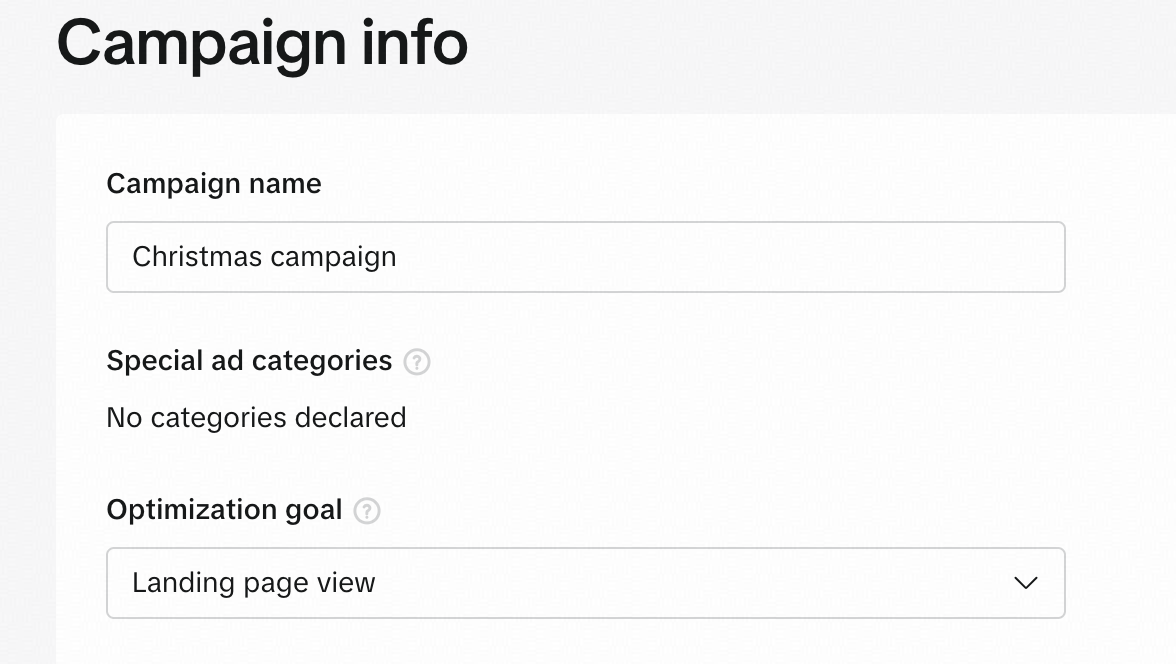
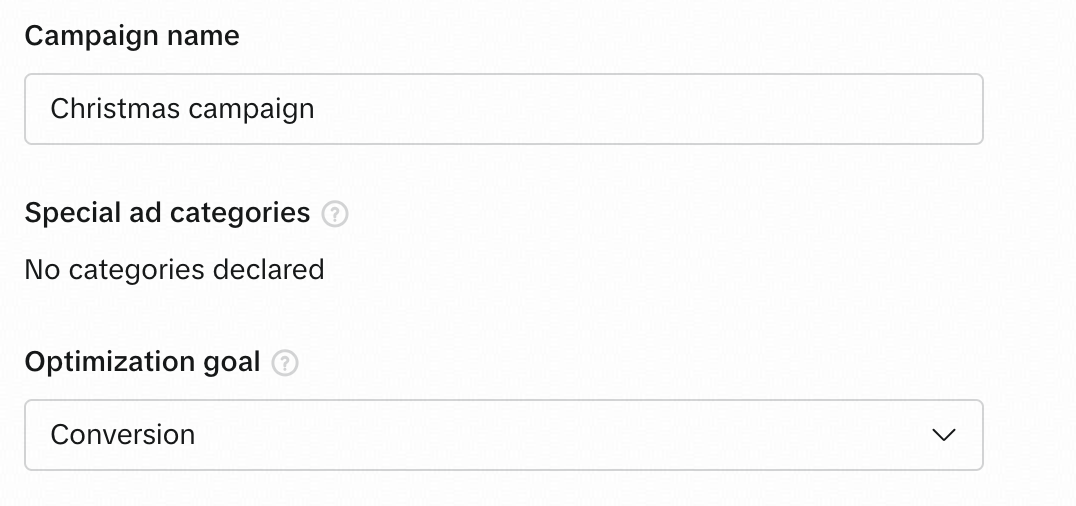
Tiktok improvements

diff --git a/versioned_docs/version-3.0/tiktok-create-campaign.md b/versioned_docs/version-3.0/tiktok-create-campaign.md
@@ -20,20 +20,46 @@ If you are just getting started with TikTok for Business, you need to add your b
 
 Once your business account is approved, you will be redirected to creating your first campaign.
 
-## Step 2. Select the campaign objective
+## Step 2. Create a pixel
+
+You will need a TikTok pixel to connect your campaign data to revenue and get better results:
+1. Go to [**Events Manager**](https://ads.tiktok.com/i18n/events_manager/home). Click **Connect data source**.
+   <ZoomImage id="tiktok-data-source.webp" />
+2. Select **Web** as a data source type.
+   <ZoomImage id="tiktok-data-source-type.webp" />
+3. In the **Add your website** window, click **Skip**.
+   <ZoomImage id="add-your-website.webp" />
+4. Select **Manual setup** and click **Next**.
+   <ZoomImage id="manual-setup-tiktok.webp" />
+5. Select **TikTok pixel** and click **Next**.
+6. Give your pixel a name and click **Create**.
+   <ZoomImage id="tiktok-pixel.webp" />
+7. If you are planning to use TikTok for Business with some MMP service (e.g., [Adapty User Acquisition](adapty-user-acquisition.md)), you won't need to complete the full installation of the pixel. So, you can just close the setup window, and your pixel will appear on the list.
+8. To make this pixel available for use in campaigns, you need to send a test event to it. In [Adapty User Acquisition](adapty-user-acquisition.md):
+   1. Create a new TikTok campaign.
+   2. Expand a platform-specific section – e.g., iOS.
+   3. Select a pixel from the dropdown.
+   4. Click **Send test event**.
+   5. Select any event from the dropdown.
+      <ZoomImage id="tiktok-test-event.webp" />
+9. The test event will appear in TikTok in several minutes. When you see it in your pixel details, you can proceed with the campaign setup in TikTok Ads Manager.
+
+## Step 3. Select the campaign objective
+
+Go to the [ad creation page](https://ads.tiktok.com/i18n/nb_creation/create/objectives) in the Ads Manager.
 
 On the first screen, select the advertising objective and click **Continue**.
 
-Select **Brand awareness > Traffic** if you are working with [Adapty User Acquisition](adapty-user-acquisition.md) to connect the campaign data with your revenue metrics.
+Select **Sales > Website conversion**.
 
 <ZoomImage id="tiktok-objective.webp" />
 
-## Step 3. Fill in the campaign info
+## Step 4. Fill in the campaign info
 
 Next, fill in the campaign info:
 
 1. Name your campaign in the **Campaign name** field.
-2. In the **Optimization goal** field, select **Landing page view** or **Click**. Both will work in our case.
+2. In the **Optimization goal** field, select **Conversion**. 
    <ZoomImage id="tiktok-campaign-info.webp" />
 3. Your ad will be displayed in the TikTok feed and search. For additional setup, click **Advanced settings**. In **Placements**, configure the placement settings:
    - **User comment**: Select if you want to display your ad in the comments section as well. TikTok recommends keeping user comments on to help your ads achieve more impressions.
@@ -42,7 +68,7 @@ Next, fill in the campaign info:
    <ZoomImage id="tiktok-placement.webp" />
 4. Click **Continue**.
 
-## Step 4. Add ad content
+## Step 5. Add ad content
 
 Now, it's time to set up your creatives and destination URL:
 
@@ -60,7 +86,7 @@ Now, it's time to set up your creatives and destination URL:
    <ZoomImage id="tiktok-ad-text.webp" width="700px" />
 10. Click **Continue**.
 
-## Step 5. Configure targeting and budget
+## Step 6. Configure targeting and budget
 
 Finally, set up who should see your ad and how much you plan to pay for it:
 
@@ -80,12 +106,10 @@ Finally, set up who should see your ad and how much you plan to pay for it:
 
 When you finish, it will create a new campaign with one ad group. The ad group will contain one ad if you have configured a carousel or several ads if you have added creatives as separate ads.
 
-## Step 6. Enter payment details
+## Step 7. Enter payment details
 
 To start running the ad, after you configure targeting and ad budget, enter your payment details. After that, you are all set!
 
 ## What's next
 
-Once your ad is live:
-- [Set up a TikTok pixel](https://ads.tiktok.com/help/article/get-started-pixel?lang=en) to collect more insights on the campaign performance.
-- [Explore how the campaign affects your app revenue in Adapty User Acquisition](adapty-user-acquisition.md)
+If you use Adapty User Acquisition, [you can explore how the campaign affects your app revenue in the dashboard](adapty-user-acquisition.md)
